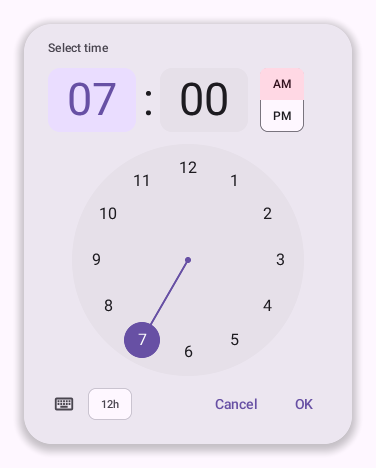
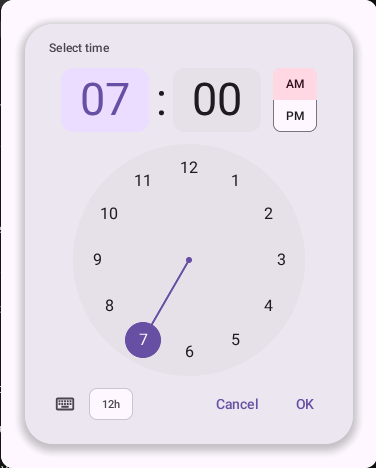
timepicker: the fields are a centred group
The page says the hour and minute are centred in the card, and that a 24-hour clock centres the two on their own because the AM/PM control is not there. The dial and input screenshots are re-captured with the new layout, light and dark.

diff --git a/docs/components/timepicker.md b/docs/components/timepicker.md
@@ -54,6 +54,10 @@ and drag the hand, or click anywhere on the ring, and the minute under it is
 picked — 13 as readily as 15. Picking the minutes keeps them active, so the hour
 never comes back on its own; the header halves switch back.
 
+The two fields are centred in the card as one group. A 24-hour clock has no
+AM/PM control, so it centres the two on their own instead of leaving the gap
+where the control would be.
+
 The two halves of the big time are targets too, so either half can be picked
 first. The active half is filled with `primaryContainer` and its text is
 `primary`; the other sits on `surfaceContainerHighest`.
